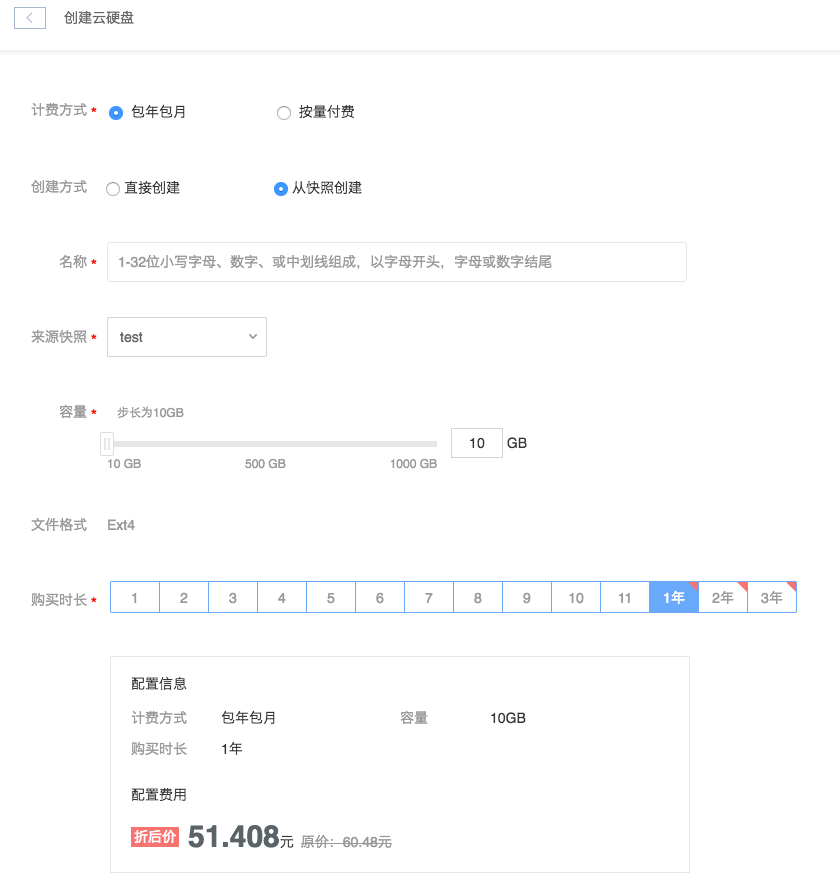
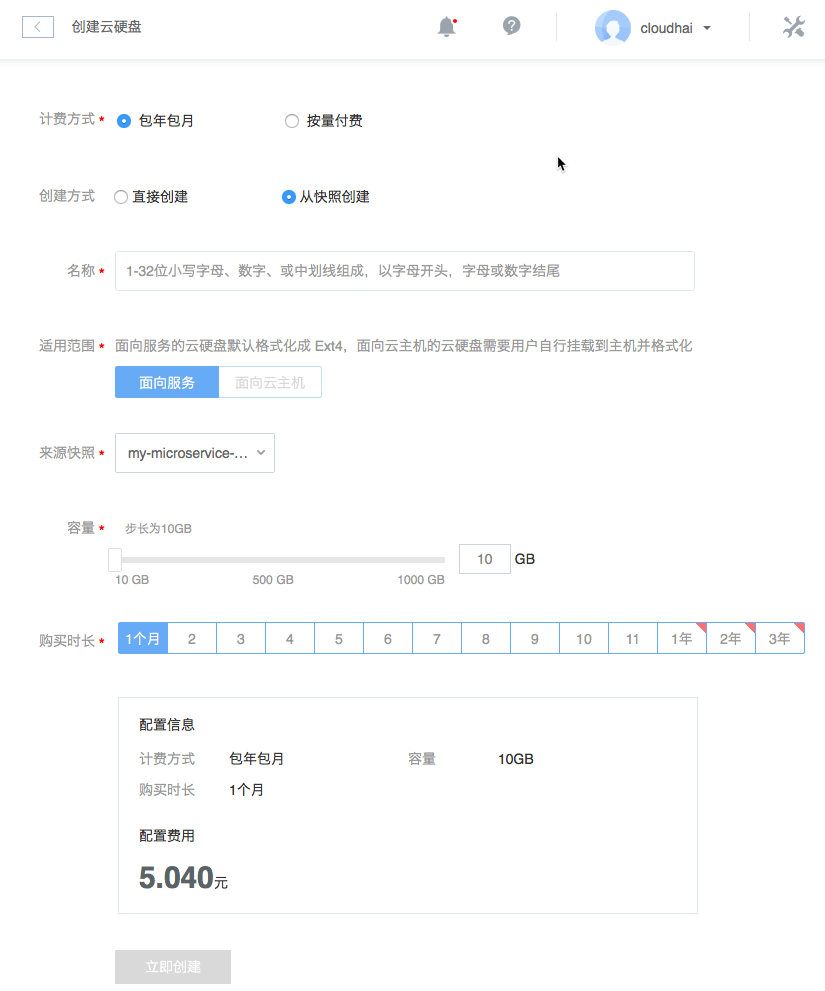
Feature:云硬盘重构-创建

diff --git a/平台服务/云硬盘/购买指南/云硬盘价格与计费.md b/平台服务/云硬盘/购买指南/云硬盘价格与计费.md
@@ -1,0 +1,69 @@
+# 价格与计费
+
+## 1. 介绍
+
+云硬盘提供按量和包年包月付费的使用方式。
+
+## 2. 包年包月
+
+### 2.1. 收费方式
+
+2.1.1. 计费项：
+
+|   类型   |            说明            | 价格（元/G/小时） | 包月（元/G/月） | 包年原价（元/G/年） |                      包年折扣                      |
+|----------|----------------------------|-------------------|-----------------|---------------------|----------------------------------------------------|
+| SSD 云盘 | 10 ~ 1000 GB，步长为 10 GB |            0.0007 |           0.504 |              6.048 | 1 年折扣 0.85；<br>2 年折扣 0.8；<br>3 年折扣 0.75 |
+
+2.1.2. 包年包月实例需要先完成付款，才可以创建。
+
+2.1.3. 资源有效期：从首次创建成功的那个小时第零分钟起，到包年包月时长结束停止。
+&nbsp;&nbsp;&nbsp;&nbsp;&nbsp;&nbsp;&nbsp;&nbsp;&nbsp;&nbsp;有效期示例：若在 2016.05.20 13:14:00 购买了一个资源，购买时长 1 个月，则有效期为 2016.05.20 13:00:00 ~ 2016.06.20 12:59:59。
+
+2.1.4. 若包年包月实例到期后未续费，则会自动转为按量付费的方式进行计费，计费标准和释放规则详见下文「按量付费」部分。
+
+2.1.5. 若包年包月实例首次创建失败，用户可以删除实例，包年包月的费用将会退回到余额。
+
+### 2.2. 提醒规则
+
+2.2.1. 当出现欠费情况时，蜂巢会通过短信、邮件或站内信发送相应的通知，为了保证线上业务的正常运行，请关注账户余额及蜂巢发出的通知信息；
+
+2.2.2. 用户可以设置余额提醒，在账户余额小于设定值时，蜂巢会通过短信、邮件通知用户。若账户一直处于提醒状态，提醒通知则会每天发送一次。
+
+
+## 3. 按量付费 
+
+### 3.1. 收费方式
+
+3.1.1. 计费项：
+
+|   类型   |            说明            | 价格（元/G/小时） |
+|----------|----------------------------|-------------------|
+| SSD 云盘 | 10 ~ 1000 GB，步长为 10 GB |            0.0007 |
+
+3.1.2. 用户购买按量付费资源时，账户余额必须大于等于 50 元或有可用代金券。
+
+3.1.3. 按量付费以实际用量结算方式进行结算，以小时为单位，按实际消费金额对账户余额进行扣费。
+
+### 3.2. 结算说明
+
+3.2.1 结算周期以小时为单位，上一小时的账单将在下一小时半点开始结算，结算时间以实际自动结算时间为准（以北京时间为准）。
+
+3.2.2 计费开始与结束：实例开通后立即开始计费，不足一小时按一小时计算。实例删除后计费停止，最后一个计费周期使用不足一小时仍按一小时计算。
+
+3.2.3 结算范围：系统自动结算账单，若账户存在欠费账单，充值销账后，系统将自动结算。
+
+### 3.3. 释放规则
+
+当按量实例出现欠费时，蜂巢提供欠费缓冲期机制，来保证实例可以再正常运行一段时间，用户需要尽快充值以避免资源停服或者删除。
+
+* 缓冲期为一天；
+* 缓冲期内，实例仍可正常使用；若超出缓冲期仍然欠费，则会停止服务；
+* 用户数据将保留 7 天，若到期仍未补足欠款，则将删除实例且无法恢复。
+
+### 3.4. 提醒规则
+
+3.4.1. 当出现欠费情况时，蜂巢会通过短信、邮件或站内信发送相应的通知，为了保证线上业务的正常运行，请关注账户余额及蜂巢发出的通知信息；
+
+3.4.2. 用户可以设置余额提醒，在账户余额小于设定值时，蜂巢会通过短信、邮件通知用户。若账户一直处于提醒状态，提醒通知则会每天发送一次。
+
+

diff --git a/平台服务/云硬盘/使用指南/创建云硬盘.md b/平台服务/云硬盘/使用指南/创建云硬盘.md
@@ -1,19 +1,39 @@
 # 创建云硬盘
 
-点击左侧的导航菜单「云硬盘」，进入云硬盘列表页，通过点击云硬盘列表左上角的「创建云硬盘」按钮可进入创建容器页面，现在支持直接创建新云硬盘或从快照创建云硬盘。
+云硬盘有两种计费方式：包年包月和按量付费。建议你使用 [价格计算器](https://c.163.com/price) 对实例的价格成本进行初步估算，具体计费标准请参见 [云硬盘价格与计费](http://http://support.c.163.com/md.html#!平台服务/云硬盘/购买指南/云硬盘价格与计费.md)。
 
+<span>Note:</span>
+单个实例最多支持挂载 4 块高性能数据盘（SSD 云硬盘）；
+每单云硬盘支持 10-1000 GB 容量，步长 10 GB。
 
-### 直接创建
+<span>Attention:</span>
+服务和云主机的云硬盘不通用，请注意选择；
+面向云主机云硬盘，在云主机创建完成后挂载和管理；
+面向服务云硬盘，需在创建服务时挂载，创建完成后无法再挂载额外云硬盘，请提前做好挂载数量规划。
+
+## 操作流程
+
+### 1. 直接创建
+
+1.1. 登录 [控制台](https://c.163.com/dashboard#/m/volume/)，定位到「**云硬盘**」标签；
+1.2. 点击云硬盘列表，左上角的「**创建云硬盘**」按钮；
+1.3. 创建方式选择「**直接创建**」；
+1.4. 选择「**适用范围**」；
+1.5. 规划容量后创建：
 
 ![](../image/创建云硬盘-直接创建.png)
 
-### 从快照创建
+
+### 2. 从快找创建
+
+<span>Note:</span>
+云主机目前不支持云硬盘快照；
+从快找创建的云硬盘容量默认等于快照大小，你可以调整容量大于默认值。
+
+2.1. 登录 [控制台](https://c.163.com/dashboard#/m/volume/)，定位到「**云硬盘**」标签；
+2.2. 点击云硬盘列表，左上角的「**创建云硬盘**」按钮；
+2.3. 创建方式选择「**从快照创建**」；
+2.4. 选择「**适用范围**」（云主机目前不支持云硬盘快照）；
+2.5. 规划容量后创建：
 
 ![](../image/创建云硬盘-从快照创建.png)
-
-其中带* 为必填项
-
-* 名称：云硬盘的名称可用于区分挂载在不同服务中的实例，避免误操作导致的数据丢失。
-* 容量：设置云硬盘的容量，支持 10-1000 GB ，步长 10 GB。云硬盘创建完后支持离线扩容。
-* 文件格式：目前云硬盘只支持 Ext4 文件格式。
-

diff --git a/平台服务/云硬盘/navigation.md b/平台服务/云硬盘/navigation.md
@@ -4,12 +4,26 @@
  
 * [白皮书](平台服务/云硬盘/产品简介/云硬盘白皮书.md)
 
-[使用指南]()
+[购买指南]()
+* [购买]()
+* [扩容]()
+* [价格与计费](平台服务/云硬盘/购买指南/云硬盘价格与计费.md)
+* [欠费说明]()
 
+[使用指南]()
 * [创建云硬盘](平台服务/云硬盘/使用指南/创建云硬盘.md)
+* [挂载云硬盘]()
+* [初始化云硬盘]()
+
+  * [Windows 主机]()
+  * [Linux 主机]()
 * [扩容云硬盘](平台服务/云硬盘/使用指南/扩容云硬盘.md)
-* [创建快照](平台服务/云硬盘/使用指南/创建快照.md)
+* [卸载云硬盘]()
 * [删除云硬盘](平台服务/云硬盘/使用指南/删除云硬盘.md)
+* [快照]()
+
+  * [创建快照](平台服务/云硬盘/使用指南/快找/创建快照.md)
+  * [删除快照]()
 
 [API 手册]()
 
@@ -19,3 +33,12 @@
 * [删除云硬盘](平台服务/云硬盘/API 手册/删除云硬盘.md)
 
 [价格与计费](平台服务/云硬盘/云硬盘价格与计费.md)
+
+
+
+
+
+
+
+
+
